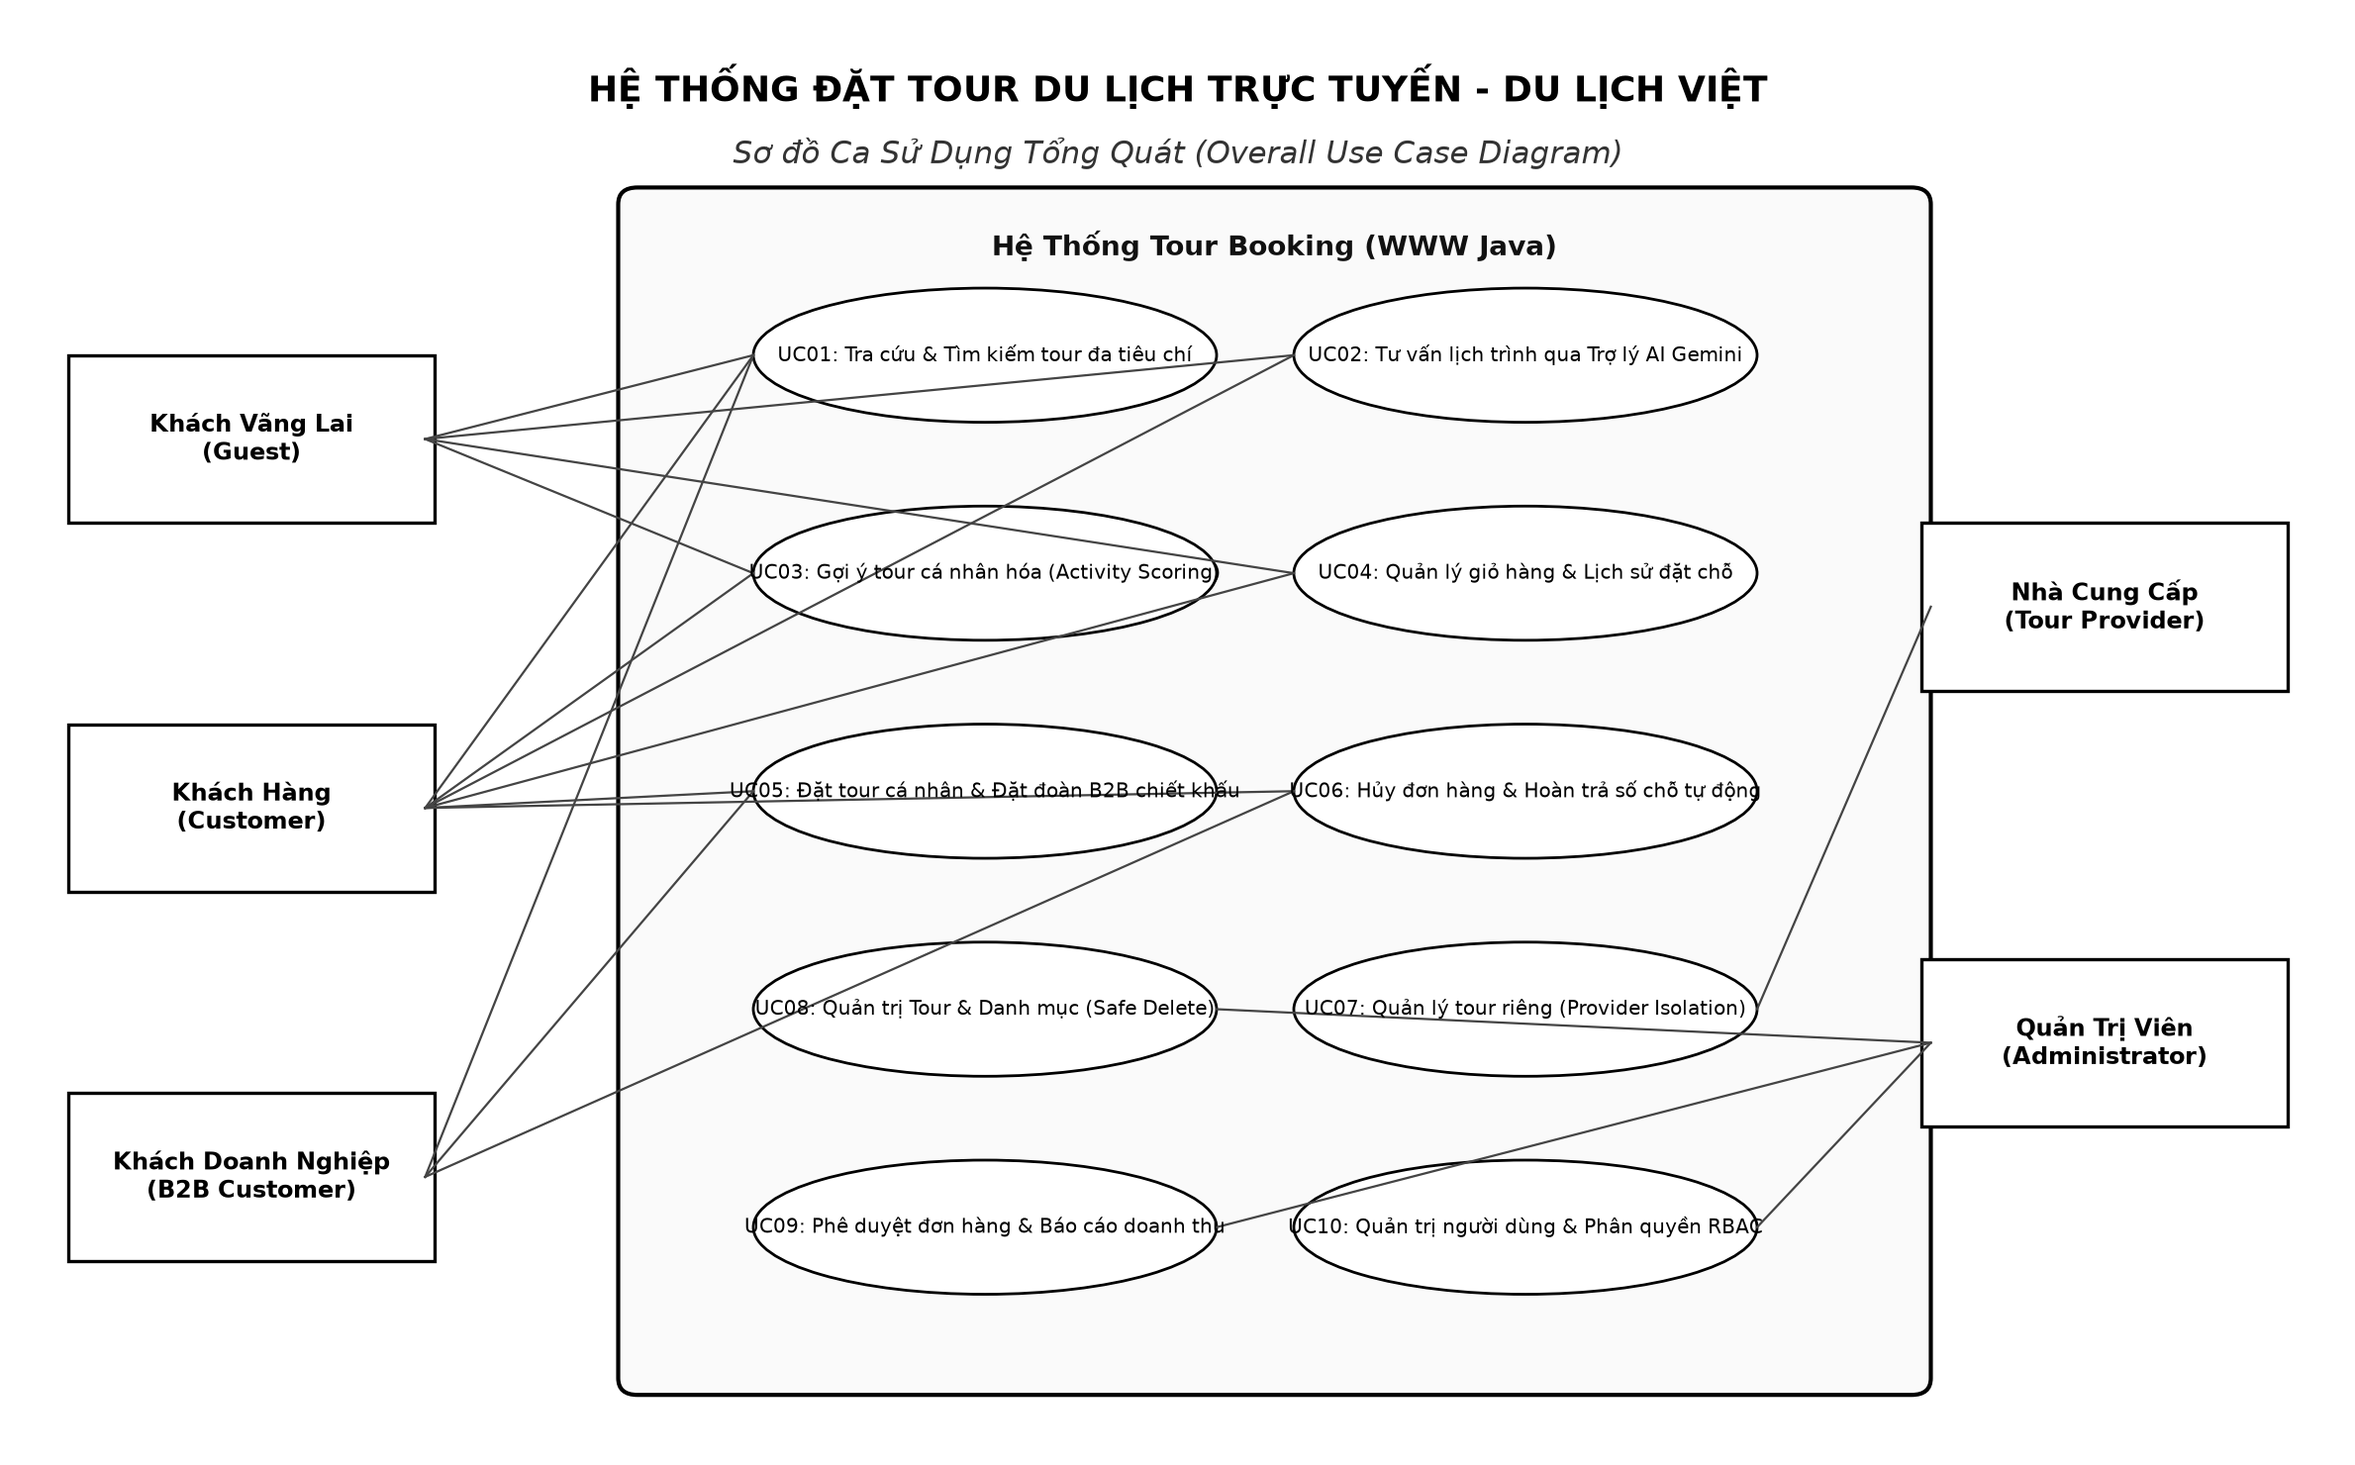
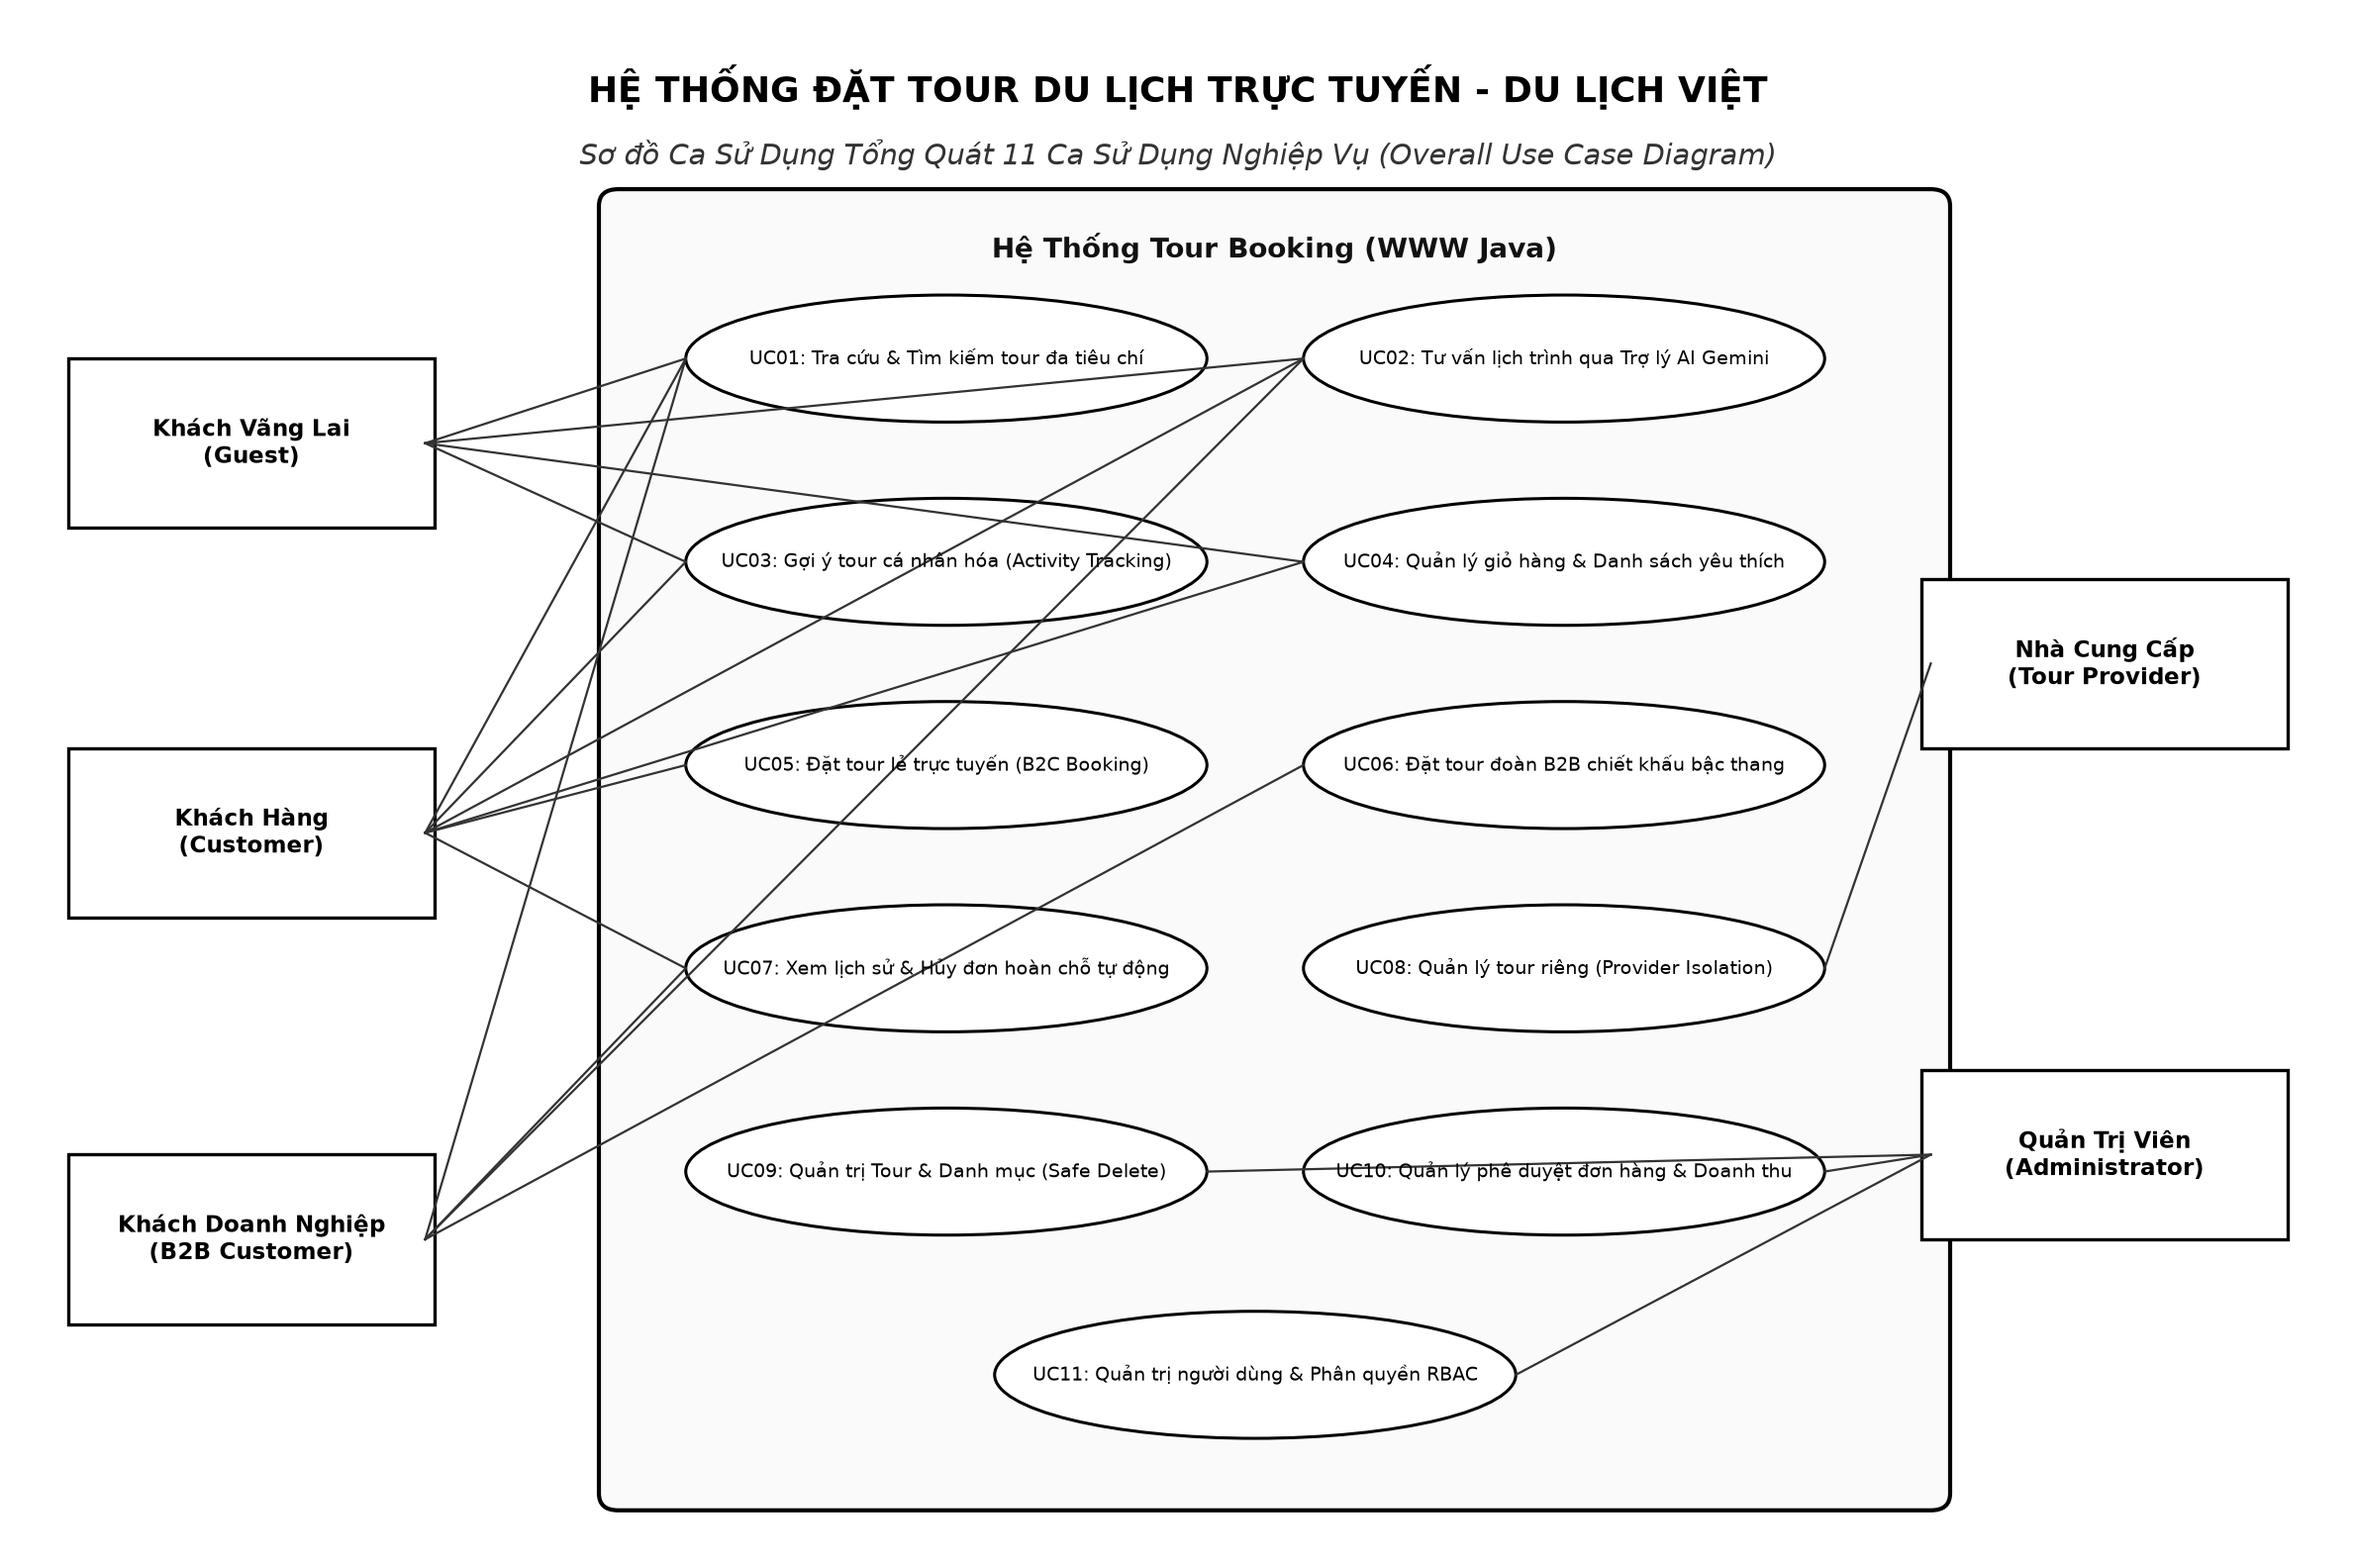
fix(core): sync instructor and topic metadata across SQL seeds, evict category cache on tour mutations, update 11-usecase diagram

diff --git a/backend/src/main/java/vn/dulichviet/tourbooking/service/TourService.java b/backend/src/main/java/vn/dulichviet/tourbooking/service/TourService.java
@@ -11,6 +11,7 @@ import vn.dulichviet.tourbooking.repository.TourRepository;
 
 import org.springframework.cache.annotation.CacheEvict;
 import org.springframework.cache.annotation.Cacheable;
+import org.springframework.cache.annotation.Caching;
 
 import java.time.LocalDateTime;
 import java.util.List;
@@ -58,10 +59,12 @@ public class TourService {
                 .collect(Collectors.toList());
     }
 
+    @CacheEvict(value = "categories", allEntries = true)
     public TourDto create(TourRequest request) {
         return create(request, null);
     }
 
+    @CacheEvict(value = "categories", allEntries = true)
     public TourDto create(TourRequest request, vn.dulichviet.tourbooking.entity.User currentUser) {
         Category category = categoryRepository.findById(request.categoryId())
                 .orElseThrow(() -> new ApiException(404, "Không tìm thấy danh mục"));
@@ -78,12 +81,18 @@ public class TourService {
         return TourDto.from(saved);
     }
 
-    @CacheEvict(value = "tour", key = "#id")
+    @Caching(evict = {
+        @CacheEvict(value = "tour", key = "#id"),
+        @CacheEvict(value = "categories", allEntries = true)
+    })
     public TourDto update(Integer id, TourRequest request) {
         return update(id, request, null);
     }
 
-    @CacheEvict(value = "tour", key = "#id")
+    @Caching(evict = {
+        @CacheEvict(value = "tour", key = "#id"),
+        @CacheEvict(value = "categories", allEntries = true)
+    })
     public TourDto update(Integer id, TourRequest request, vn.dulichviet.tourbooking.entity.User currentUser) {
         Tour tour = tourRepository.findById(id)
                 .orElseThrow(() -> new ApiException(404, "Không tìm thấy tour"));
@@ -105,12 +114,18 @@ public class TourService {
         return TourDto.from(saved);
     }
 
-    @CacheEvict(value = "tour", key = "#id")
+    @Caching(evict = {
+        @CacheEvict(value = "tour", key = "#id"),
+        @CacheEvict(value = "categories", allEntries = true)
+    })
     public void delete(Integer id) {
         delete(id, null);
     }
 
-    @CacheEvict(value = "tour", key = "#id")
+    @Caching(evict = {
+        @CacheEvict(value = "tour", key = "#id"),
+        @CacheEvict(value = "categories", allEntries = true)
+    })
     public void delete(Integer id, vn.dulichviet.tourbooking.entity.User currentUser) {
         Tour tour = tourRepository.findById(id)
                 .orElseThrow(() -> new ApiException(404, "Không tìm thấy tour"));
